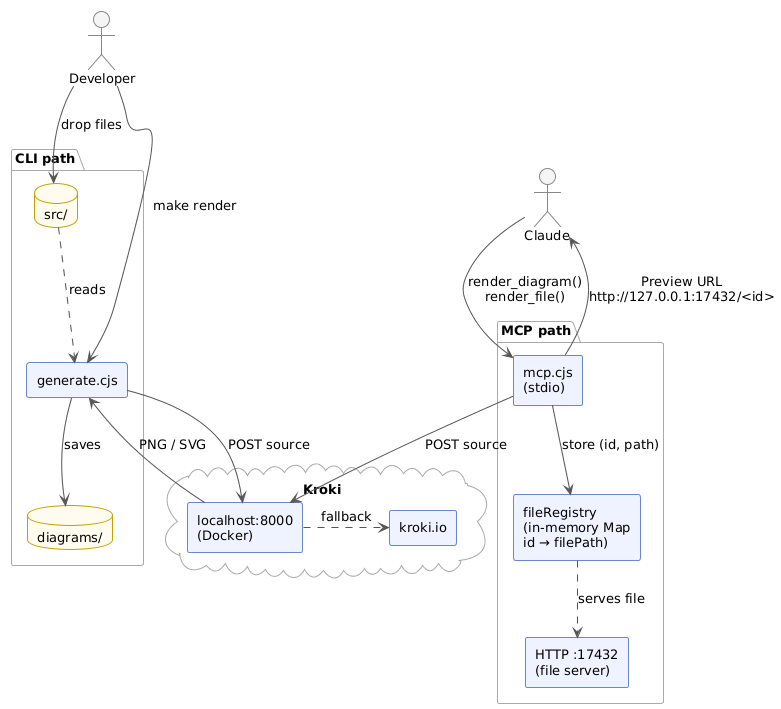
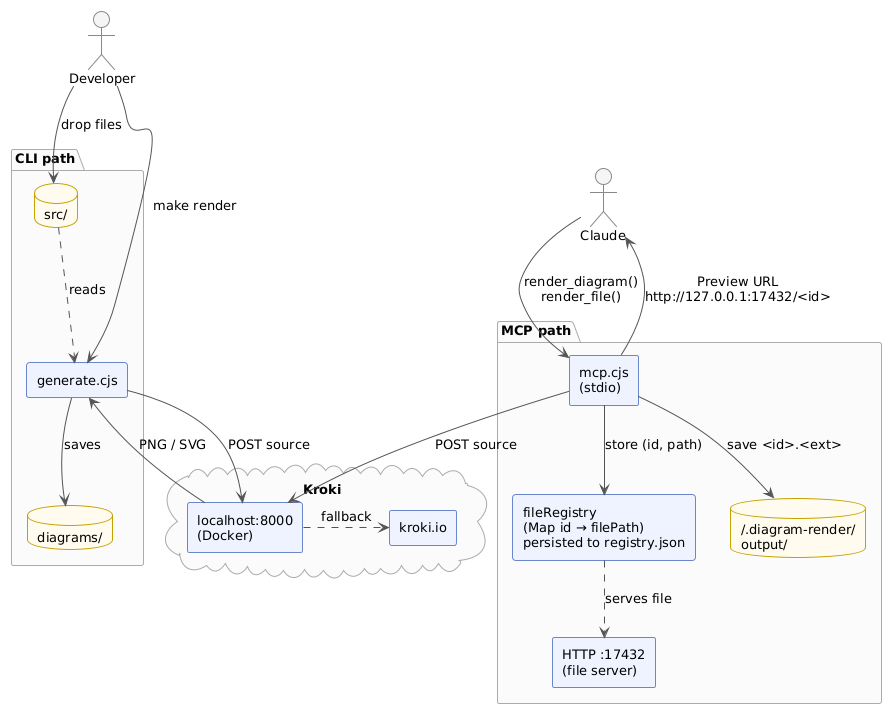
docs: update architecture diagrams to reflect persistent storage
- PlantUML overview: add ~/.diagram-render/output/ database node, update
  fileRegistry label to show it is persisted to registry.json
- Mermaid sequence: replace /tmp/ write step with ~/.diagram-render/output/,
  update Reg participant to show disk persistence

diff --git a/src/public/architecture.md b/src/public/architecture.md
@@ -31,7 +31,8 @@ package "CLI path" {
 
 package "MCP path" {
   component "mcp.cjs\n(stdio)" as mcp
-  component "fileRegistry\n(in-memory Map\nid → filePath)" as reg
+  component "fileRegistry\n(Map id → filePath)\npersisted to registry.json" as reg
+  database "~/.diagram-render/\noutput/" as store
   component "HTTP :17432\n(file server)" as http
 }
 
@@ -50,6 +51,7 @@ cli --> out : saves
 
 ai --> mcp : render_diagram()\nrender_file()
 mcp --> local : POST source
+mcp --> store : save <id>.<ext>
 mcp --> reg : store (id, path)
 reg ..> http : serves file
 mcp --> ai : Preview URL\nhttp://127.0.0.1:17432/<id>
@@ -61,14 +63,15 @@ sequenceDiagram
     actor Claude
     participant MCP as mcp.cjs
     participant Kroki as Kroki server
-    participant Reg as fileRegistry (Map)
+    participant Store as ~/.diagram-render/output/
+    participant Reg as fileRegistry (Map + registry.json)
     participant HTTP as HTTP :17432
 
     Claude->>MCP: render_diagram(source, type)
     MCP->>Kroki: POST /plantuml/png
     Kroki-->>MCP: PNG bytes
-    MCP->>MCP: write to /tmp/diagram-render-xxx/diagram.png
-    MCP->>Reg: set(id, {filePath, mimeType})
+    MCP->>Store: write <id>.png
+    MCP->>Reg: set(id, {filePath, mimeType}) + persist to disk
     MCP-->>Claude: Preview URL http://127.0.0.1:17432/<id>
     Note over Claude: shares URL with user
     Claude-->>MCP: user opens link in browser
